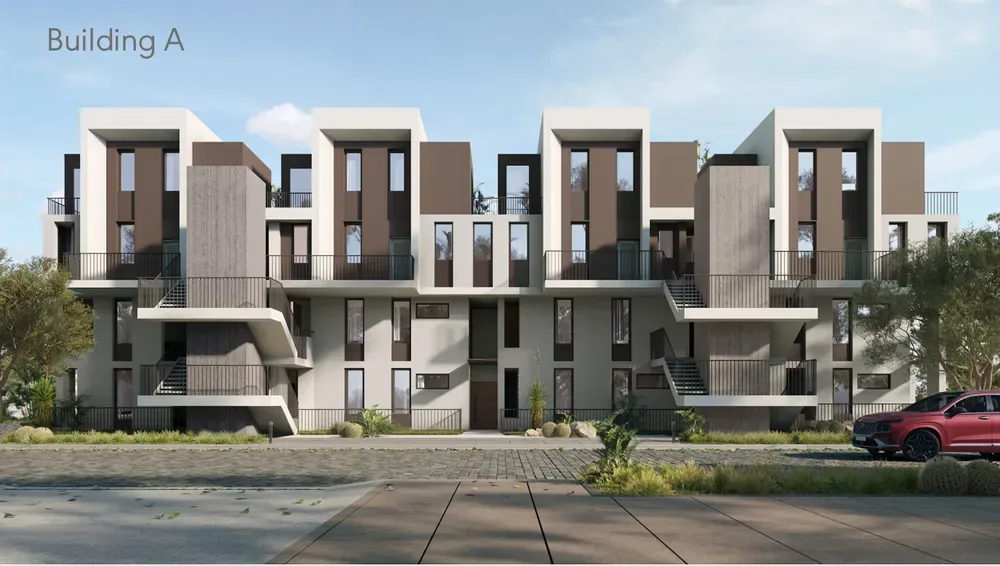
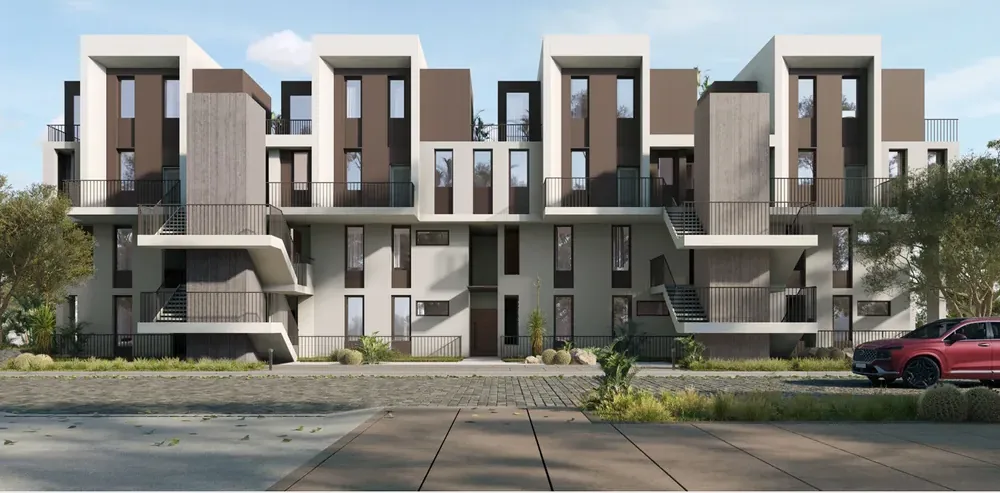
بهء

diff --git a/components/hero.tsx b/components/hero.tsx
@@ -5,7 +5,7 @@ import LeadForm from "./lead-form";
 
 const stats = [
   { value: "5%", label: "جدية الحجز" },
-  { value: "9", label: "سنين تقسيط للسكني" },
+  { value: "9", label: "سنين تقسيط" },
   { value: "26.6", label: "فدان على التسعين" },
   { value: "1", label: "مبنى عيادات فقط" },
 ];
@@ -22,45 +22,44 @@ export default function Hero() {
         <div className="absolute inset-0 bg-gradient-to-t from-ink via-ink/85 to-ink/55" />
       </div>
 
-      <div className="relative mx-auto max-w-7xl px-5 pb-16 pt-28">
-        <div className="inline-flex items-center gap-3 rounded-full border border-brass-2/40 bg-ink/60 px-5 py-2 text-sm text-paper/85 backdrop-blur">
+      <div className="relative mx-auto max-w-7xl px-5 pb-12 pt-24 md:pb-16 md:pt-28">
+        <div className="inline-flex items-center gap-2.5 rounded-full border border-brass-2/40 bg-ink/60 px-4 py-1.5 text-xs text-paper/85 backdrop-blur md:px-5 md:py-2 md:text-sm">
           <span className="h-2 w-2 rounded-full bg-brass-2" />
-          طرح جديد: شقق فندقية مخدومة · عيادات ميديكا — المتاح محدود</div>
+          طرح جديد · شقق مخدومة وعيادات</div>
 
-        <div className="mt-8 grid items-start gap-10 lg:grid-cols-[1.1fr_420px]">
+        <div className="mt-6 grid grid-cols-1 items-start gap-8 md:mt-8 lg:grid-cols-[1.1fr_420px] lg:gap-10">
           <div>
             <p className="eyebrow">Solana East Lane · by ORA</p>
             <h1 className="mt-4 text-4xl leading-[1.25] text-paper md:text-6xl">
               سولانا إيست لين
             </h1>
             <Ribbon light />
-            <p className="mt-4 max-w-xl text-lg leading-9 text-paper/80">
-              مشروع جديد من أورا للتطوير العقاري مباشرة على شارع التسعين الجنوبي
-              في التجمع الخامس: شقق فندقية مخدومة بالكامل، ومبنى عيادات
-              ميديكا. أسعار تبدأ من{" "}
+            <p className="mt-4 max-w-xl text-base leading-8 text-paper/80 md:text-lg md:leading-9">
+              شقق فندقية مخدومة وعيادات متشطبة من أورا، على شارع التسعين
+              الجنوبي مباشرة. تبدأ من{" "}
               <span className="num text-brass-2">{fmt(minPrice)}</span> جنيه.
             </p>
 
-            <div className="mt-8 flex flex-wrap gap-3">
+            <div className="mt-7 grid grid-cols-2 gap-3 sm:flex sm:flex-wrap">
               <a
                 href="#units"
-                className="rounded-full bg-brass-2 px-7 py-3 font-semibold text-ink transition hover:bg-brass-2/85"
+                className="rounded-full bg-brass-2 px-4 py-3 text-center text-sm font-semibold text-ink transition hover:bg-brass-2/85 sm:px-7 sm:text-base"
               >
-                تصفّح الوحدات والأسعار
+                الأسعار والوحدات
               </a>
               <CtaWhatsapp
                 message={WA_DEFAULT}
-                className="rounded-full border border-paper/30 px-7 py-3 font-semibold text-paper transition hover:border-brass-2 hover:text-brass-2"
+                className="rounded-full border border-paper/30 px-4 py-3 text-center text-sm font-semibold text-paper transition hover:border-brass-2 hover:text-brass-2 sm:px-7 sm:text-base"
               >
-                واتساب مباشر
+                واتساب
               </CtaWhatsapp>
             </div>
 
-            <div className="mt-10 grid grid-cols-2 gap-px overflow-hidden rounded-lg bg-paper/10 md:grid-cols-4">
+            <div className="mt-8 grid grid-cols-2 gap-px overflow-hidden rounded-lg bg-paper/10 md:mt-10 md:grid-cols-4">
               {stats.map((s) => (
-                <div key={s.label} className="bg-ink/85 px-5 py-5">
+                <div key={s.label} className="bg-ink/85 px-4 py-4 md:px-5 md:py-5">
                   <p className="num text-2xl text-brass-2">{s.value}</p>
-                  <p className="mt-2 text-[13px] leading-6 text-paper/60">
+                  <p className="mt-1.5 text-xs leading-5 text-paper/60 md:mt-2 md:text-[13px] md:leading-6">
                     {s.label}
                   </p>
                 </div>
@@ -72,7 +71,7 @@ export default function Hero() {
             </p>
           </div>
 
-          <div className="rounded-2xl bg-paper p-6 shadow-2xl">
+          <div id="hero-form" className="rounded-2xl bg-paper p-5 shadow-2xl md:p-6">
             <p className="eyebrow">Register Interest</p>
             <h2 className="mt-2 text-xl text-ink">استلم الأسعار والمتاح</h2>
             <p className="mt-2 text-sm leading-7 text-ink/60">

diff --git a/components/units.tsx b/components/units.tsx
@@ -18,6 +18,7 @@ const cards = products.flatMap((p) =>
       eoi: p.eoi,
       dpLabel: p.dpLabel,
       plan: p.plan,
+      terms: p.terms,
       image: u.image,
     }))
   )
@@ -74,36 +75,30 @@ export default function Units() {
           </button>
         </div>
 
-        <div className="mt-8 grid gap-5 md:grid-cols-2 lg:grid-cols-4">
+        <div className="no-scrollbar -mx-5 mt-8 flex snap-x snap-mandatory gap-4 overflow-x-auto px-5 pb-2 md:mx-0 md:grid md:grid-cols-2 md:gap-5 md:overflow-visible md:px-0 md:pb-0 lg:grid-cols-4">
           {list.map((c, i) => (
-            <Reveal key={c.key} delay={(i % 4) * 50}>
+            <Reveal key={c.key} delay={(i % 4) * 50} className="w-[82%] shrink-0 snap-start md:w-auto">
               <article className="slab-dark flex h-full flex-col overflow-hidden">
-                <div className="relative h-44 w-full">
-                  <img src={c.image} alt={`${c.type} ${c.spec} — سولانا إيست لين`} loading="lazy" className="h-44 w-full object-cover" />
+                <div className="relative h-40 w-full md:h-44">
+                  <img src={c.image} alt={`${c.type} ${c.spec} — سولانا إيست لين`} loading="lazy" className="h-40 w-full object-cover md:h-44" />
                   <span className="num absolute end-3 top-3 rounded-full bg-ink/85 px-3 py-1 text-[11px] tracking-[0.12em] text-brass-2">
                     {c.productEn}
                   </span>
                 </div>
 
-                <div className="flex flex-1 flex-col p-6">
+                <div className="flex flex-1 flex-col p-5 md:p-6">
                   <p className="text-xs text-paper/50">{c.product}</p>
                   <h3 className="mt-1 text-lg text-paper">
                     {c.type} — {c.spec}
                   </h3>
 
-                  <div className="mt-4 grid grid-cols-2 gap-3 rounded-lg bg-ink/50 p-4 text-[13px]">
-                    <div>
-                      <p className="text-paper/50">جدية الحجز</p>
-                      <p className="num mt-1 text-paper">{c.eoi}</p>
-                    </div>
-                    <div>
-                      <p className="text-paper/50">التشطيب</p>
-                      <p className="mt-1 text-paper">{c.slug === "medica" ? "كامل بالحمامات" : "مخدومة بالكامل"}</p>
-                    </div>
-                    <div className="col-span-2">
-                      <p className="text-paper/50">السداد</p>
-                      <p className="mt-1 text-paper">{c.slug === "medica" ? `${c.dpLabel} · ${c.plan}` : c.plan}</p>
-                    </div>
+                  <div className="mt-4 grid grid-cols-2 gap-x-3 gap-y-3 rounded-lg bg-ink/50 p-4 text-[13px]">
+                    {c.terms.map(([k, v]) => (
+                      <div key={k}>
+                        <p className="text-paper/50">{k}</p>
+                        <p className="mt-1 text-paper"><bdi>{v}</bdi></p>
+                      </div>
+                    ))}
                   </div>
 
                   <div className="mt-5">
@@ -132,6 +127,8 @@ export default function Units() {
             </Reveal>
           ))}
         </div>
+
+        <p className="mt-4 text-xs text-paper/50 md:hidden">اسحب لعرض باقي الوحدات ←</p>
 
         <p className="mt-10 text-xs leading-6 text-paper/45">
           الأسعار المعروضة أسعار بداية (Starting Price) وتختلف حسب المساحة والدور والموقع داخل المبنى. العيادات عليها وديعة صيانة 10%.

diff --git a/lib/site.ts b/lib/site.ts
@@ -73,8 +73,8 @@ export const investment = [
     body: "طرح جديد بجدية حجز 5%. أسعار الإطلاق عادةً أقل سعر هتلاقيه للمشروع.",
   },
   {
-    stat: "90",
-    unit: "الجنوبي",
+    stat: "1.1",
+    unit: "كم واجهة",
     title: "على شارع التسعين مباشرة",
     body: "مش جوه كمبوند بعيد عن الشارع. الوصول والظهور مباشر لأهم محور في التجمع.",
   },
@@ -116,6 +116,7 @@ export type Product = {
   dpLabel: string;
   years: number;
   plan: string;
+  terms: [string, string][];
   image: string;
   highlights: string[];
   groups: { title: string; note?: string; units: Unit[] }[];
@@ -128,16 +129,22 @@ export const products: Product[] = [
     nameEn: "SERVICED APARTMENTS",
     eyebrow: "New Launch",
     intro:
-      "شقق فندقية مخدومة بالكامل من أورا في مباني G+3.5 مباشرة على شارع التسعين الجنوبي. غرفة وغرفتين و3 غرف بسعر دخول يبدأ من 8.9 مليون.",
+      "شقق فندقية بإدارة وخدمات أورا، في مباني G+3.5 وسط لاندسكيب على التسعين الجنوبي. غرفة وغرفتين و3 غرف — للسكن أو للإيجار.",
     scarcity: "طرح جديد — المتاح محدود",
     eoi: "5%",
     dp: 5,
     dpLabel: "جدية حجز 5%",
     years: 9,
     plan: "تقسيط حتى 9 سنين",
+    terms: [
+      ["جدية الحجز", "5%"],
+      ["التقسيط", "حتى 9 سنين"],
+      ["المبنى", "G+3.5"],
+      ["التشطيب", "مخدومة بالكامل"],
+    ],
     image: "/images/res-walkway.webp",
     highlights: [
-      "Fully Serviced — إدارة وخدمات فندقية",
+      "إدارة وخدمات فندقية بالكامل",
       "مباني G+3.5 وسط لاندسكيب",
       "مباشرة على التسعين الجنوبي",
       "تبدأ من 8.9 مليون جنيه",
@@ -159,13 +166,19 @@ export const products: Product[] = [
     nameEn: "MEDICA CLINICS",
     eyebrow: "Medical Building",
     intro:
-      "Medica at Solana East Lane: مبنى العيادات الوحيد في المشروع، G+3، عيادات متشطبة بالكامل بالحمامات بمساحات من 57 لـ 155 م² على واجهة التسعين.",
+      "المبنى الطبي الوحيد في المشروع على واجهة التسعين. عيادات من 57 لـ 155 م² متشطبة بالكامل بالحمامات، في مبنى G+3 بلوبي واستقبال مشترك.",
     scarcity: "مبنى عيادات واحد فقط من 8 مباني",
     eoi: "5%",
     dp: 10,
     dpLabel: "5% مقدم + 5% بعد 3 شهور",
     years: 8.5,
     plan: "8.5 سنة أقساط متساوية",
+    terms: [
+      ["المقدم", "5%"],
+      ["بعد 3 شهور", "5%"],
+      ["التقسيط", "8.5 سنة"],
+      ["التشطيب", "كامل بالحمامات"],
+    ],
     image: "/images/medica-plaza.webp",
     highlights: [
       "متشطبة بالكامل بالحمامات",

diff --git a/components/products.tsx b/components/products.tsx
@@ -20,7 +20,7 @@ export default function Products() {
                 <div className="frame m-0 h-52 w-full border-s-0">
                   <img src={p.image} alt={p.name} className="h-52 w-full object-cover" />
                 </div>
-                <div className="p-7">
+                <div className="p-5 md:p-7">
                   <p className="eyebrow">{p.eyebrow}</p>
                   <h3 className="num mt-3 text-xl tracking-[0.14em] text-ink">{p.nameEn}</h3>
                   <p className="mt-1 text-lg text-ink/80">{p.name}</p>
@@ -36,7 +36,7 @@ export default function Products() {
                     ))}
                   </ul>
 
-                  <div className="mt-6 flex flex-wrap gap-x-8 gap-y-3 border-t border-sand-2 pt-5">
+                  <div className="mt-6 grid grid-cols-2 gap-x-6 gap-y-4 border-t border-sand-2 pt-5 sm:flex sm:flex-wrap sm:gap-x-8">
                     <div>
                       <p className="text-xs text-ink/55">جدية الحجز</p>
                       <p className="num mt-1 text-lg text-ink">{p.eoi}</p>
@@ -45,7 +45,7 @@ export default function Products() {
                       <p className="text-xs text-ink/55">السداد</p>
                       <p className="mt-1 text-[15px] text-ink">{p.plan}</p>
                     </div>
-                    <div>
+                    <div className="col-span-2">
                       <p className="text-xs text-ink/55">محدودية الطرح</p>
                       <p className="mt-1 text-[15px] text-ink">{p.scarcity}</p>
                     </div>

diff --git a/components/sections.tsx b/components/sections.tsx
@@ -52,7 +52,7 @@ export function Amenities() {
         <div className="mt-12 grid gap-5 md:grid-cols-2 lg:grid-cols-3">
           {amenities.map((a, i) => (
             <Reveal key={a.title} delay={i * 50}>
-              <div className="slab h-full p-6 shadow-sm">
+              <div className="slab h-full p-5 shadow-sm md:p-6">
                 <h3 className="text-lg text-ink">{a.title}</h3>
                 <p className="mt-3 text-[15px] leading-8 text-ink/70">
                   {a.body}
@@ -90,7 +90,7 @@ export function Gallery() {
             sub="صور تعبيرية للمباني السكنية ومبنى العيادات ميديكا."
           />
         </Reveal>
-        <div className="mt-12 grid gap-4 sm:grid-cols-2 lg:grid-cols-3">
+        <div className="mt-10 grid grid-cols-2 gap-3 md:mt-12 md:gap-4 lg:grid-cols-3">
           {shots.map((s, i) => (
             <Reveal key={s.src} delay={i * 40}>
               <div className="frame">
@@ -98,7 +98,7 @@ export function Gallery() {
                   src={s.src}
                   alt={s.alt}
                   loading="lazy"
-                  className="h-64 w-full object-cover"
+                  className="h-32 w-full object-cover sm:h-48 md:h-64"
                 />
               </div>
             </Reveal>

diff --git a/components/header.tsx b/components/header.tsx
@@ -34,8 +34,8 @@ export default function Header() {
     >
       <div className="mx-auto flex h-[68px] max-w-7xl items-center justify-between px-5">
         <Link href="/" className="flex flex-col leading-none">
-          <span className="num text-lg tracking-[0.28em] text-paper">SOLANA EAST LANE</span>
-          <span className="mt-1 text-[11px] text-brass-2">
+          <span className="num whitespace-nowrap text-[13px] tracking-[0.16em] text-paper sm:text-lg sm:tracking-[0.28em]">SOLANA EAST LANE</span>
+          <span className="mt-1 whitespace-nowrap text-[10px] text-brass-2 sm:text-[11px]">
             by ORA — التسعين الجنوبي
           </span>
         </Link>
@@ -67,7 +67,7 @@ export default function Header() {
             onClick={() => track("whatsapp")}
             target="_blank"
             rel="noopener"
-            className="rounded-full bg-brass-2 px-5 py-2 text-sm font-semibold text-ink transition hover:bg-brass-2/85"
+            className="whitespace-nowrap rounded-full bg-brass-2 px-4 py-2 text-[13px] font-semibold text-ink transition hover:bg-brass-2/85 sm:px-5 sm:text-sm"
           >
             تواصل الآن
           </a>

diff --git a/components/sections-2.tsx b/components/sections-2.tsx
@@ -89,7 +89,23 @@ export function Compare() {
         </Reveal>
 
         <Reveal delay={60}>
-          <div className="mt-10 overflow-x-auto">
+          <div className="mt-8 grid gap-4 md:hidden">
+            {[a, b].map((p, idx) => (
+              <div key={p.slug} className="slab p-5 shadow-sm">
+                <p className="num text-xs tracking-[0.14em] text-brass">{p.nameEn}</p>
+                <p className="mt-1 text-lg text-ink">{p.name}</p>
+                <dl className="mt-4 divide-y divide-sand-2">
+                  {rows.map((r) => (
+                    <div key={r.label} className="flex justify-between gap-4 py-2.5 text-sm">
+                      <dt className="shrink-0 text-ink/55">{r.label}</dt>
+                      <dd className="text-end text-ink">{idx === 0 ? r.a : r.b}</dd>
+                    </div>
+                  ))}
+                </dl>
+              </div>
+            ))}
+          </div>
+          <div className="mt-10 hidden overflow-x-auto md:block">
             <table className="w-full min-w-[640px] border-collapse text-start">
               <thead>
                 <tr>

diff --git a/components/chrome.tsx b/components/chrome.tsx
@@ -11,7 +11,7 @@ const WA_MSG =
 
 export function FloatingCtas() {
   return (
-    <div className="fixed bottom-24 end-4 z-40 flex flex-col gap-3 md:bottom-6">
+    <div className="fixed bottom-6 end-4 z-40 hidden flex-col gap-3 md:flex">
       <a
         href={waLink(WA_MSG)}
         target="_blank"
@@ -134,7 +134,7 @@ export function CookieConsent() {
   if (!show) return null;
 
   return (
-    <div className="fixed inset-x-0 bottom-14 z-50 mx-auto max-w-3xl rounded-xl bg-ink px-5 py-4 text-paper shadow-xl md:bottom-4">
+    <div className="fixed inset-x-3 bottom-16 z-50 mx-auto max-w-3xl rounded-xl bg-ink px-5 py-4 text-paper shadow-xl md:bottom-4">
       <div className="flex flex-wrap items-center justify-between gap-4">
         <p className="text-sm leading-7 text-paper/80">
           نستخدم ملفات تعريف الارتباط لتحسين التجربة وقياس أداء الحملات.

diff --git a/app/globals.css b/app/globals.css
@@ -131,3 +131,6 @@ h3,
     scroll-behavior: auto;
   }
 }
+
+.no-scrollbar::-webkit-scrollbar{display:none}
+.no-scrollbar{scrollbar-width:none}
